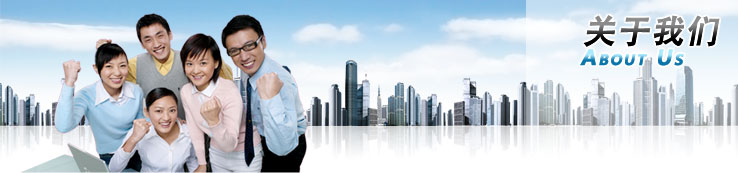
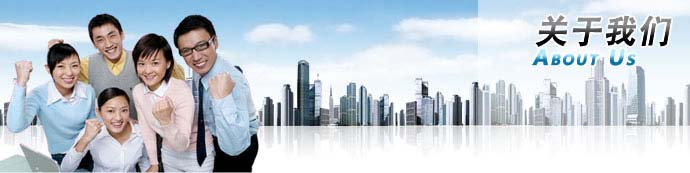
修改宽度

diff --git a/user/view/default/public/contact.html b/user/view/default/public/contact.html
@@ -1,11 +1,11 @@
 <div class="height_t"><table id="table_r"><tr><td height="5"></td></tr></table></div>
-<div align="center">
+<div align="center" class="right">
 	<table id="table_news" cellpadding="0" cellspacing="0" >
 		<tr>
-			<td width="750" height="173" valign="top"><img src="/user{{$STATIC}}/images/aboutus.jpg" /></td>
+			<td height="173" valign="top"><img src="/user{{$STATIC}}/images/aboutus.jpg" /></td>
 		</tr>
 		<tr>
-			<td width="750" height="479" background="/user{{$STATIC}}/images/Cloud_host_info_bg.jpg" valign="top">
+			<td height="479" background="/user{{$STATIC}}/images/Cloud_host_info_bg.jpg" valign="top">
 			<!--客服代码开始-->
 				<table cellspacing="10" width="100%">
 					<tr><td align="left"><img src="/user{{$STATIC}}/images/info_Title_pic_contact.jpg" /></td></tr>

diff --git a/user/view/default/public/head.html b/user/view/default/public/head.html
@@ -34,7 +34,7 @@ td {font-family: Arial, Helvetica, sans-serif;font-size: 13px;}
 .bgcolor_left2{background-color:#ffffff;}
 #table_t {width:85%; border:0px; line-height:20px;}
 #table_r {width:100%; border:0px;}
-#table_news{width:960px; border:0px;}
+#table_news{width:690px; border:0px;}
 #table_rr {width:100%; border:0px; line-height:24px;}
 .index_bg{background-image:url(/user{{$STATIC}}images/box_tl3.jpg); background-repeat:repeat-x; width:263px;margin:0 auto; margin-bottom:0px; height:223px;}
 .left_bg_help{background-image:url(/user{{$STATIC}}images/box_tl5.jpg); background-repeat:repeat-x; width:263px;margin:0 auto; margin-bottom:0px; height:160px;}
